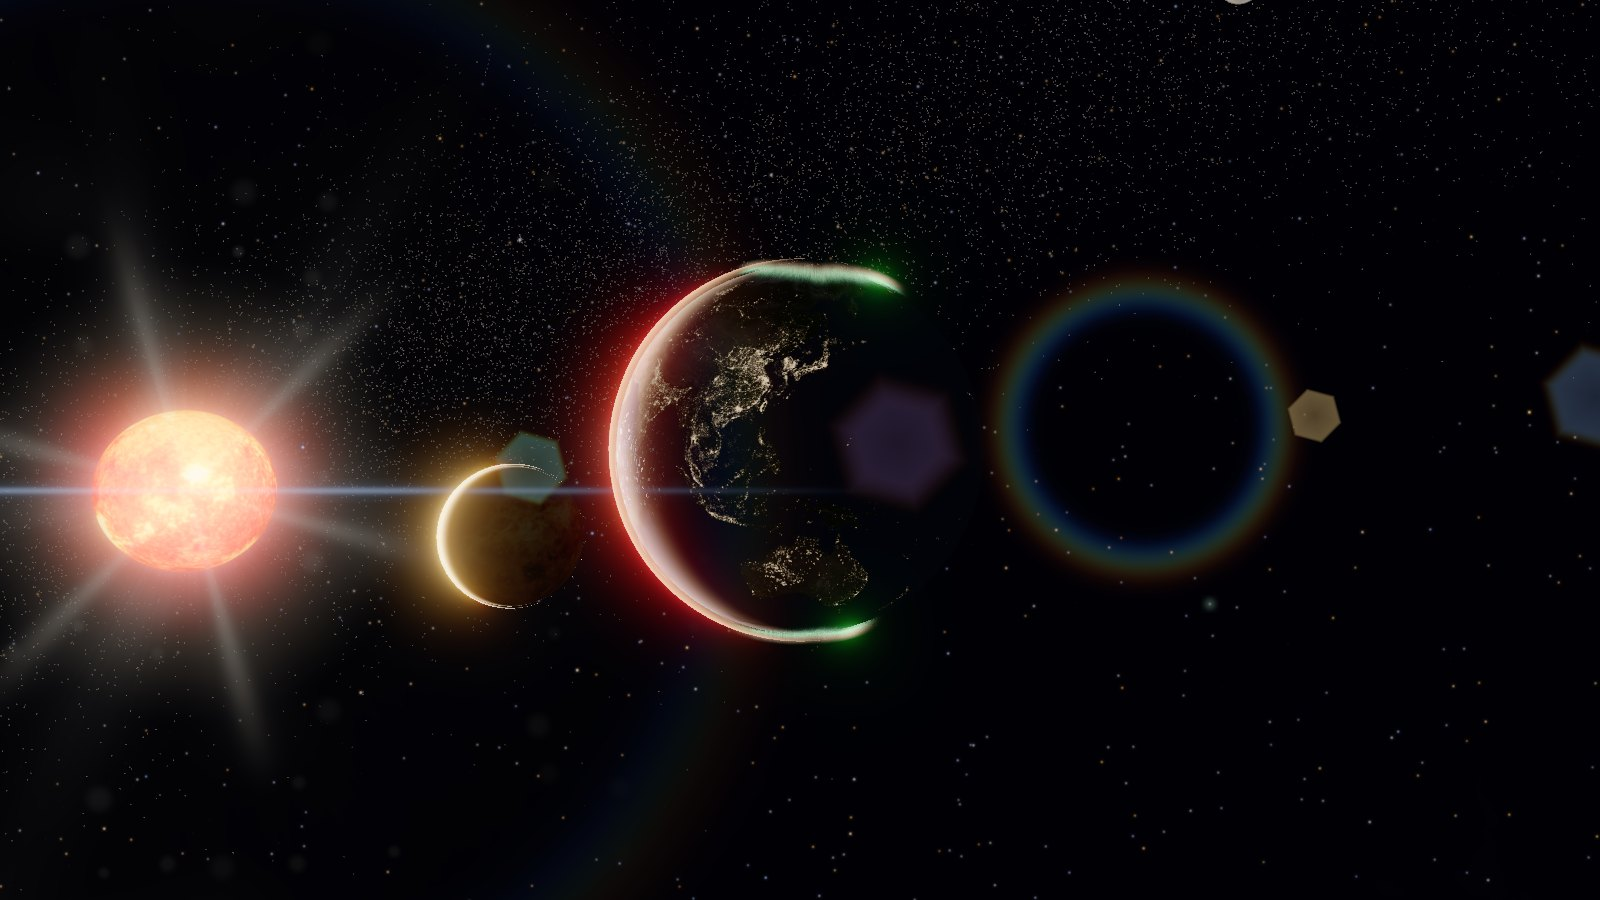
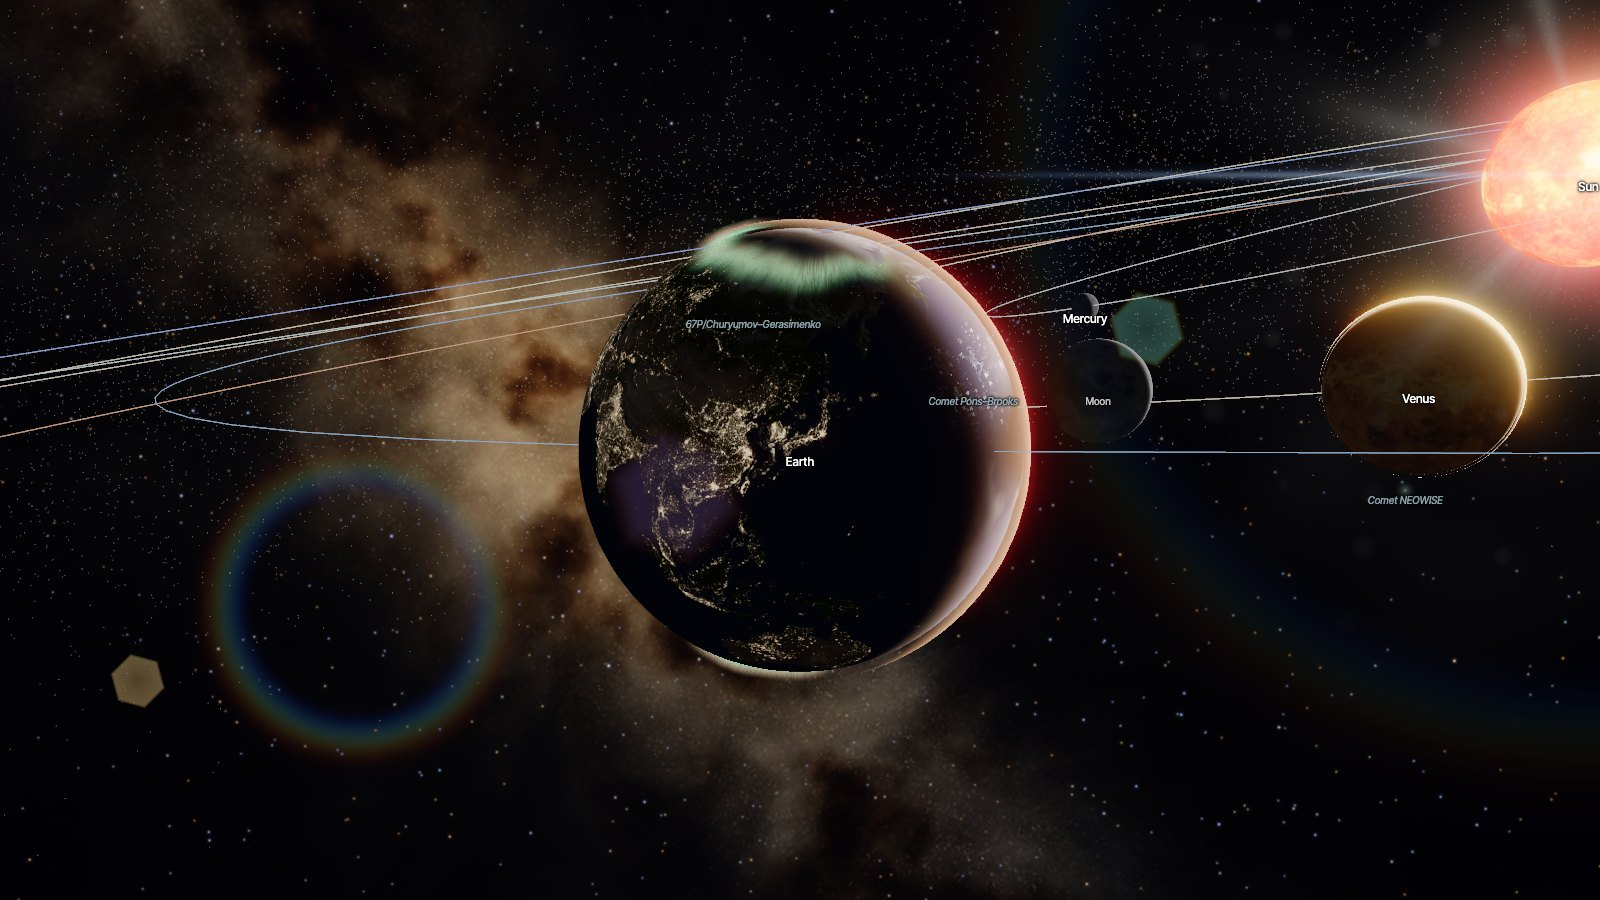
Supercut, cinematic: slow eased camera moves, Earth's best side, the seasons and the lineup
Six shots of three bars each (43 s): the planets circling the Sun, the camera gliding from
Earth's day side round to its night side as the Sun rises behind it, Saturn from above, the
seasons lesson flying in to Earth's tilted axis, the planets side by side seen from beside the
Sun as they line up by size, and the grand tour setting off from Earth. Camera moves ease in
and out (drag and zoom together); lesson shots hide the interface. The README's picture is
Earth's best side now.

diff --git a/packages/app/scripts/supercut/scenes.ts b/packages/app/scripts/supercut/scenes.ts
@@ -1,5 +1,5 @@
 import type { Page } from '@playwright/test'
-import { boot, drag, followBody, hold, sceneOnly, setSwitch, sunBehindTarget, timeRate, wait, zoom } from './stage'
+import { boot, drag, followBody, glide, lessonSceneOnly, sceneOnly, setSwitch, sunBehindTarget, timeRate, wait, zoom } from './stage'
 
 // One shot of the film: set up off camera (`prepare`), then filmed for `bars` bars of the music
 // while `act` runs.
@@ -13,25 +13,45 @@ export interface Scene {
 }
 
 // The followed body with the Sun turned right behind it, the camera then turned `offset` pixels
-// around (0: the body eclipses the Sun), the clock at a rate preset if given, labels off again and
-// the interface hidden.
-async function sunlit(page: Page, base: string, body: string, offset: [number, number], rate?: number): Promise<void> {
+// around (0: the body eclipses the Sun) and zoomed by `notches`, the clock at a rate preset if
+// given; with labels and orbits if asked, the interface hidden.
+async function sunlit(page: Page, base: string, body: string, { offset, notches = 0, rate, labels = false }: { offset: [number, number]; notches?: number; rate?: number; labels?: boolean }): Promise<void> {
   await boot(page, base)
   await setSwitch(page, '#body-labels-toggle', true)
+  if (labels) await setSwitch(page, '#orbit-paths-toggle', true)
   await followBody(page, body)
   await sunBehindTarget(page)
   await drag(page, offset)
-  await setSwitch(page, '#body-labels-toggle', false)
+  if (notches) await zoom(page, notches)
+  if (!labels) await setSwitch(page, '#body-labels-toggle', false)
   if (rate !== undefined) await timeRate(page, rate)
   await sceneOnly(page)
   await wait(800)
 }
 
+// The narrow portrait frame: a push-in there would fill it with the planet.
+function portrait(page: Page): boolean {
+  const { width, height } = page.viewportSize()!
+  return height > width
+}
+
+// A lesson opened, once its camera has framed the first shot (only then may it be turned), with
+// the interface hidden; its buttons are pressed from the page then.
+async function lesson(page: Page, base: string, id: string): Promise<void> {
+  await boot(page, base)
+  await page.locator('#learn-mode-btn').click()
+  await page.locator(`.hud-lesson-card[data-lesson-id="${id}"]`).click()
+  await wait(5000)
+  await lessonSceneOnly(page)
+}
+
+const press = (page: Page, selector: string) => page.evaluate((selector) => document.querySelector<HTMLElement>(selector)!.click(), selector)
+
 export const SCENES: Scene[] = [
   {
-    // The planets running round the Sun, a month a second, and the camera diving into it.
+    // The planets running round the Sun, a month a second, the camera drifting in towards it.
     caption: 'The Solar System, live in your browser',
-    bars: 2,
+    bars: 3,
     prepare: async (page, base) => {
       await boot(page, base)
       await setSwitch(page, '#orbit-paths-toggle', true)
@@ -41,87 +61,52 @@ export const SCENES: Scene[] = [
       await timeRate(page, 4)
       await sceneOnly(page)
     },
-    act: async (page) => {
-      await hold(page, ['ArrowRight'], 1200)
-      await hold(page, ['ArrowRight', 'r'], 2200)
-    },
+    act: (page, seconds) => glide(page, [160, 40], seconds * 1000 - 400, portrait(page) ? -300 : -900),
   },
   {
-    // Earth eclipsing the Sun, then the camera swings round to its day side.
+    // From Earth's day side round to its night side, the Sun rising behind it.
     caption: 'Light, shadow and glow',
-    bars: 2,
-    prepare: (page, base) => sunlit(page, base, 'Earth', [-12, 6], 2),
-    act: async (page) => {
-      await wait(900)
-      await hold(page, ['ArrowLeft'], 1300)
-    },
-  },
-  {
-    // Past the Moon, with Earth turning from day to a crescent in front of the Sun.
-    caption: 'Fly around any world',
-    bars: 2,
-    prepare: (page, base) => sunlit(page, base, 'Moon', [300, 0]),
-    act: (page) => hold(page, portrait(page) ? ['ArrowRight'] : ['ArrowRight', 'r'], 2600),
+    bars: 3,
+    prepare: (page, base) => sunlit(page, base, 'Earth', { offset: [-560, 70], notches: -3, rate: 2, labels: true }),
+    act: (page, seconds) => glide(page, [420, 0], seconds * 1000 - 400, portrait(page) ? 0 : -120),
   },
   {
     caption: 'Every world on its real orbit',
-    bars: 2,
-    prepare: (page, base) => sunlit(page, base, 'Saturn', [480, -50]),
+    bars: 3,
+    prepare: (page, base) => sunlit(page, base, 'Saturn', { offset: [480, -110] }),
+    act: (page, seconds) => glide(page, [-140, -30], seconds * 1000 - 400, portrait(page) ? 0 : -100),
+  },
+  {
+    // The seasons lesson flying from Earth's orbit in to Earth, its tilted axis and the Sun.
+    caption: 'Lessons that show how it works',
+    bars: 3,
+    prepare: (page, base) => lesson(page, base, 'seasons'),
     act: async (page) => {
-      await hold(page, ['ArrowRight'], 1400)
-      if (!portrait(page)) await hold(page, ['r'], 700)
+      await wait(700)
+      await press(page, '#lesson-next-chapter')
     },
   },
   {
-    caption: 'True scale, or one you can take in',
-    bars: 2,
-    captionOnTop: true,
+    // The planets side by side, seen from beside the Sun, lining up anew by size.
+    caption: 'The planets, side by side at true scale',
+    bars: 3,
     prepare: async (page, base) => {
-      await boot(page, base)
-      await setSwitch(page, '#orbit-paths-toggle', true)
-      await zoom(page, 6)
-      await timeRate(page, 4)
+      await lesson(page, base, 'planetSizes')
+      await drag(page, [-300, -60])
+      await wait(800)
     },
-    act: async (page) => {
-      const view = page.locator('.hud-dock-btn[data-panel="view"]:visible')
-      await wait(400)
-      await view.click()
-      await page.locator('#scale-mode-realistic-btn').click()
-      await view.click()
-    },
-  },
-  {
-    caption: 'Lessons that show it',
-    bars: 2,
-    captionOnTop: true,
-    prepare: (page, base) => lesson(page, base, 'planetSizes'),
-    act: async (page) => {
-      await page.locator('#lesson-sort-btn').click()
-      await wait(500)
-      await page.locator('#lesson-sort-list [data-sorting-id="size"]').click()
-    },
-  },
-  {
-    // From the evening crescent to the first quarter, seen from the ground.
-    caption: '…and read themselves out',
-    bars: 2,
-    captionOnTop: true,
-    prepare: async (page, base) => {
-      await lesson(page, base, 'moonPhases')
-      for (let i = 0; i < 3; i++) {
-        await page.locator('#lesson-next-chapter').click()
-        await wait(2500)
-      }
-    },
-    act: async (page) => {
-      await wait(500)
-      await page.locator('#lesson-next-chapter').click()
+    act: async (page, seconds) => {
+      const move = glide(page, [-60, -10], seconds * 1000 - 400, -150)
+      await wait(1800)
+      await press(page, '#lesson-sort-btn')
+      await press(page, '#lesson-sort-list [data-sorting-id="size"]')
+      await move
     },
   },
   {
     // The grand tour setting off from Earth: past the Moon and Venus, on to the Sun.
     caption: 'A narrated grand tour',
-    bars: 2,
+    bars: 3,
     captionOnTop: true,
     prepare: async (page, base) => {
       await boot(page, base)
@@ -135,19 +120,3 @@ export const SCENES: Scene[] = [
     },
   },
 ]
-
-// The narrow portrait frame: a push-in there would fill it with the planet.
-function portrait(page: Page): boolean {
-  const { width, height } = page.viewportSize()!
-  return height > width
-}
-
-// A lesson opened, its text card folded down so the scene shows.
-async function lesson(page: Page, base: string, id: string): Promise<void> {
-  await boot(page, base)
-  await page.locator('#learn-mode-btn').click()
-  await page.locator(`.hud-lesson-card[data-lesson-id="${id}"]`).click()
-  await wait(2500)
-  await page.locator('#lesson-text-toggle').click()
-  await wait(800)
-}

diff --git a/packages/app/scripts/supercut/stage.ts b/packages/app/scripts/supercut/stage.ts
@@ -62,6 +62,38 @@ export async function zoom(page: Page, notches: number): Promise<void> {
   await wait(1200)
 }
 
+// A cinematic camera move: drags the orbit camera from the center by (dx, dy) and zooms by `zoom`
+// wheel units (negative: in), both easing in and out over `ms`, then holds still before letting
+// go, so nothing flings on.
+export async function glide(page: Page, [dx, dy]: [number, number], ms: number, zoom = 0): Promise<void> {
+  const { width, height } = page.viewportSize()!
+  const [x, y] = [width / 2, height / 2]
+  const ease = (t: number) => t * t * (3 - 2 * t)
+  await page.mouse.move(x, y)
+  if (dx || dy) await page.mouse.down()
+  const start = Date.now()
+  let [lastEased, done] = [0, false]
+  while (!done) {
+    const t = Math.min((Date.now() - start) / ms, 1)
+    done = t >= 1
+    const eased = ease(t)
+    if (dx || dy) await page.mouse.move(x + dx * eased, y + dy * eased)
+    if (zoom) await page.mouse.wheel(0, zoom * (eased - lastEased))
+    lastEased = eased
+    await wait(16)
+  }
+  await wait(200)
+  if (dx || dy) await page.mouse.up()
+}
+
+// The interface hidden in a lesson too (the app's own hiding is for Explore): only the scene and
+// its labels stay.
+export async function lessonSceneOnly(page: Page): Promise<void> {
+  await page.addStyleTag({
+    content: '.hud-modes, .hud-top-actions, .hud-dock, .hud-lesson-panel, .hud-view-controls, .hud-phase-inset, .hud-camera-hint { display: none !important; }',
+  })
+}
+
 // Holds keys down for `ms`: the app's own camera keys (arrows turn, R/F zoom), which it eases in
 // and out - smoother than any drag.
 export async function hold(page: Page, keys: string[], ms: number): Promise<void> {

diff --git a/packages/app/scripts/screenshots.ts b/packages/app/scripts/screenshots.ts
@@ -38,8 +38,16 @@ const lessonAt = async (page: Page, base: string, id: string, nexts: number) => 
 }
 
 const SHOTS: Record<string, Shot> = {
+  // Earth's best side: its night side with the cities and the aurora, the Sun rising behind it,
+  // Venus and Mercury beside it, with the orbits and the names.
   hero: async (page, base) => {
-    await sunlit(page, base, 'Earth', [120, 0])
+    await boot(page, base)
+    await setSwitch(page, '#body-labels-toggle', true)
+    await setSwitch(page, '#orbit-paths-toggle', true)
+    await followBody(page, 'Earth')
+    await sunBehindTarget(page)
+    await drag(page, [-140, 70])
+    await zoom(page, -3)
     await sceneOnly(page)
   },
   corona: async (page, base) => {

diff --git a/packages/app/scripts/supercut/soundtrack.ts b/packages/app/scripts/supercut/soundtrack.ts
@@ -14,8 +14,8 @@ const MUSIC_TRACKS = '/src/music/musicTracks.ts'
 // Where Lyra speaks, in bars from the start (see lines.json).
 const LINES: [id: string, bar: number][] = [
   ['intro', 0.25],
-  ['middle', 8],
-  ['outro', 16.1],
+  ['middle', 9],
+  ['outro', 18.1],
 ]
 
 // Nova, played by the app's own synthesizer into an OfflineAudioContext: `bars` bars from the

diff --git a/README.md b/README.md
@@ -1,6 +1,6 @@
 # To Boldly Glow
 
-![To Boldly Glow: Earth as a crescent beside the Sun and Venus, its night side lit by cities, the aurora at its poles, and the lens flare of the Sun](docs/images/hero.jpg)
+![To Boldly Glow: Earth's night side with its city lights and aurora, the Sun rising behind it, Venus, Mercury and the Moon beside it, with the planets' orbits and names(docs/images/hero.jpg)
 
 To Boldly Glow is a free, open-source, browser-based planetarium and solar-system visualizer. It
 renders the Sun, all 8 planets, and 9 major moons in 3D using real orbital mechanics (VSOP87
